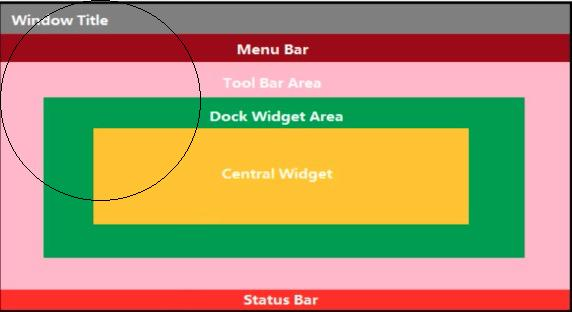
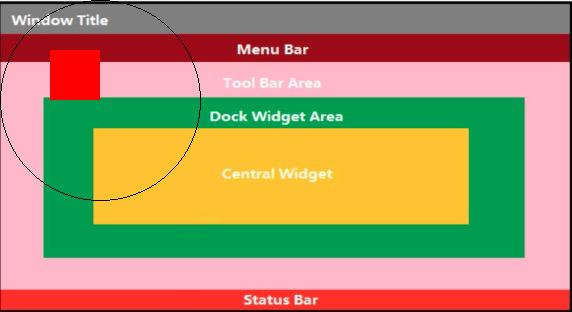
像素级修改

Changed region(s): [[0.0892, 0.1442, 0.1783, 0.3462]]

diff --git a/test_12/mainwindow.cpp b/test_12/mainwindow.cpp
@@ -13,6 +13,13 @@ MainWindow::MainWindow(QWidget *parent)
     QImage img;
     img.load(":/images/123.png");
 
+    for (int i =50; i < 100;i++ ) {
+        for (int j = 50;j < 100 ;j++ ) {
+            int value = qRgb(255,0,0);
+            img.setPixel(i,j,value);
+        }
+    }
+
     // 定义一个画笔
     QPainter painter(&img);
     painter.drawEllipse(QPoint(100,100),100,100);
